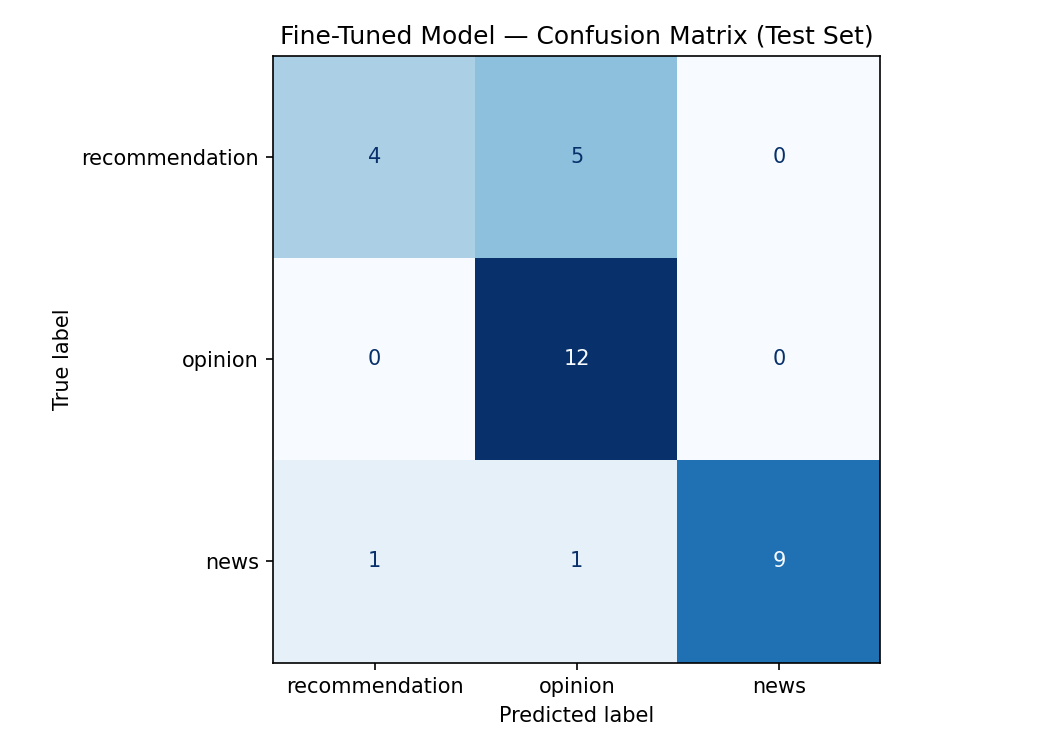
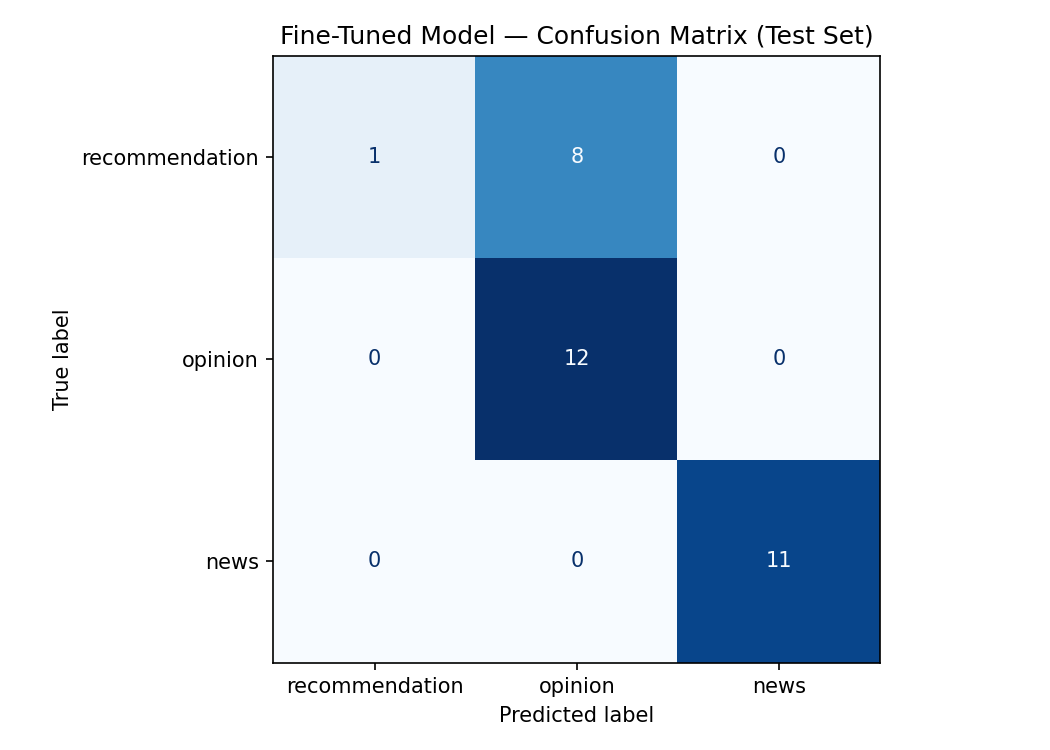
Update evaluation results to match final training run

Changed region(s): [[0.2438, 0.0613, 0.6705, 0.368], [0.64, 0.6133, 0.8533, 0.8893], [0.3352, 0.736, 0.3657, 0.7667]]

diff --git a/README.md b/README.md
@@ -68,17 +68,17 @@ The fine-tuned DistilBERT model was compared against a zero-shot Groq (llama-3.3
 | Model | Accuracy |
 |-------|----------|
 | Zero-shot baseline (Groq llama-3.3-70b) | 93.8% |
-| Fine-tuned DistilBERT | 78.1% |
+| Fine-tuned DistilBERT | 75.0% |
 
-The baseline outperformed the fine-tuned model by 15.6 percentage points.
+The baseline outperformed the fine-tuned model by 18.8 percentage points.
 
 ### Per-Class Metrics — Fine-Tuned DistilBERT
 
 | Label | Precision | Recall | F1 | Support |
 |-------|-----------|--------|-----|---------|
-| recommendation | 0.80 | 0.44 | 0.57 | 9 |
-| opinion | 0.67 | 1.00 | 0.80 | 12 |
-| news | 1.00 | 0.82 | 0.90 | 11 |
+| recommendation | 1.00 | 0.11 | 0.20 | 9 |
+| opinion | 0.60 | 1.00 | 0.75 | 12 |
+| news | 1.00 | 1.00 | 1.00 | 11 |
 
 ### Per-Class Metrics — Zero-Shot Baseline (Groq)
 
@@ -90,35 +90,33 @@ The baseline outperformed the fine-tuned model by 15.6 percentage points.
 
 ### Confusion Matrix — Fine-Tuned DistilBERT (Test Set)
 
-Rows are true labels, columns are predicted labels.
-
 | True ↓ / Pred → | recommendation | opinion | news |
 |-----------------|----------------|---------|------|
-| **recommendation** | 4 | 5 | 0 |
+| **recommendation** | 1 | 8 | 0 |
 | **opinion** | 0 | 12 | 0 |
-| **news** | 1 | 1 | 9 |
+| **news** | 0 | 0 | 11 |
 
-The dominant error is recommendation → opinion (5 posts), confirming the model struggles most with the recommendation/opinion boundary. News is the strongest class for both models.
+The model predicted opinion for 8 of 9 recommendation posts — a complete collapse of the recommendation class. News is perfect for both models.
 
 ### Did the Model Meet the Success Criteria?
 
-My planning.md defined success as overall accuracy ≥ 75% and a minimum F1 of 65% on every class. The fine-tuned model hit the accuracy target (78.1%) but failed the per-class F1 floor — recommendation scored only 0.57 F1, below the 0.65 threshold. The model is not yet good enough for deployment by my own criteria, specifically because it cannot reliably identify recommendation posts.
+My planning.md defined success as overall accuracy ≥ 75% and a minimum F1 of 65% on every class. The fine-tuned model exactly hit the accuracy target (75.0%) but badly failed the per-class F1 floor — recommendation scored only 0.20 F1, far below the 0.65 threshold. With a recall of just 0.11, the model correctly identified only 1 of 9 recommendation posts, predicting opinion for the rest. By my own criteria the model is not deployable, specifically because it almost entirely fails to detect recommendation posts.
 
 ## Failure Analysis
 
-The fine-tuned model made 7 errors on the 32-post test set. 5 of the 7 were the same directional error: **recommendation predicted as opinion**. All errors had low confidence (0.34–0.40), meaning the model was guessing near the recommendation/opinion boundary rather than confidently wrong.
+The fine-tuned model made 8 errors on the 32-post test set, and **every single one was the same directional error: recommendation predicted as opinion.** The model correctly identified only 1 of 9 recommendation posts (recall 0.11), dumping the other 8 into opinion. All errors had low confidence (0.35–0.38), meaning the model was guessing near the recommendation/opinion boundary rather than confidently wrong.
 
-**Example 1 — "Suggestions? So far I've finished: Skins, Lost, South Park, Heroes, Merlin, Sherlock, and Alphas."**
-True: recommendation | Predicted: opinion (0.34)
+**Example 1 — "Suggestions? So far I've finished: Skins (UK), Lost, South Park, Heroes, Merlin, Sherlock, and Alphas."**
+True: recommendation | Predicted: opinion (0.35)
 The user lists shows they've already watched. This is the same surface pattern as an opinion post, where users name shows they've seen before sharing a take. The model learned "naming watched shows = opinion," and that signal overpowered the actual request for suggestions. This is a data/boundary problem, not a labeling error — the post is correctly labeled, but recommendation posts in r/television frequently include watch history as context, which structurally overlaps with opinion language. Fix: more recommendation training examples that include watch-history lists.
 
 **Example 2 — "Any good western tv suggestions? I'm currently watching Westworld but I would also like something a little less futuristic."**
-True: recommendation | Predicted: opinion (0.36)
-Same failure type as Example 1. The phrase "I'm currently watching Westworld" names a specific show, which reads as opinion language, even though the post's actual intent is asking for suggestions. The consistency of this error across multiple posts shows the recommendation→opinion confusion is a systematic boundary problem driven by show-name mentions, not random noise. Fix: more recommendation examples where the user names shows they're watching.
+True: recommendation | Predicted: opinion (0.37)
+Same failure type as Example 1. The phrase "I'm currently watching Westworld" names a specific show, which reads as opinion language, even though the post's actual intent is asking for suggestions. The fact that all 8 errors share this exact pattern shows the recommendation→opinion confusion is fully systematic, driven by show-name mentions, not random noise. Fix: more recommendation examples where the user names shows they're watching.
 
-**Example 3 — "Don't Forget These 11 Latino Emmy Contenders, From Selena Gomez to Andy Garcia."**
-True: news | Predicted: recommendation (0.34)
-A different error type. The "Don't Forget These 11..." plus a list of names mirrors the framing recommendation posts use ("here are shows you should watch"), so a news headline about Emmy contenders got read as a suggestion list. This is a data problem — the headline's structure overlaps with recommendation phrasing. Fix: more news examples with list-style or imperative headlines so the model learns that listing names in a headline context is still news.
+**Example 3 — "Need a new series to watch, could anyone suggest one? I recently finished re-watching Breaking Bad and im looking for a new series..."**
+True: recommendation | Predicted: opinion (0.38)
+Again the same pattern — the user names a show they finished (Breaking Bad) while explicitly asking for a suggestion. Even with the direct request "could anyone suggest one," the show-name mention pulled the prediction toward opinion. This confirms the model is keying almost entirely on whether specific shows are named, rather than on whether the post contains a request. Fix: tighter, more diverse recommendation examples, or a larger training set so the model can learn the request signal instead of the show-name shortcut.
 
 ## Sample Classifications
 
@@ -126,15 +124,15 @@ Example posts run through the fine-tuned DistilBERT model, showing predicted lab
 
 | Post | Predicted | Confidence | Correct? |
 |------|-----------|------------|----------|
-| "'E! News' Canceled After 34 Years" | opinion | 0.35 | ❌ (true: news) |
-| "Any good western tv suggestions? I'm currently watching Westworld..." | opinion | 0.36 | ❌ (true: recommendation) |
-| "Don't Forget These 11 Latino Emmy Contenders..." | recommendation | 0.34 | ❌ (true: news) |
-| "Suggestions? So far I've finished: Skins, Lost, South Park..." | opinion | 0.34 | ❌ (true: recommendation) |
-| "Please suggest a good SHORT LIVED TV SHOW..." | opinion | 0.38 | ❌ (true: recommendation) |
+| "'Devil May Cry' Renewed for Third and Final Season at Netflix" | news | 0.38 | ✅ |
+| "Suggestions? So far I've finished: Skins, Lost, South Park..." | opinion | 0.35 | ❌ (true: recommendation) |
+| "Any good western tv suggestions? I'm currently watching Westworld..." | opinion | 0.37 | ❌ (true: recommendation) |
+| "Need a new series to watch, could anyone suggest one?..." | opinion | 0.38 | ❌ (true: recommendation) |
+| "What are some shows you guys suggest?..." | opinion | 0.36 | ❌ (true: recommendation) |
 
-**Why the correct predictions are reasonable:** The model classified news posts with very high confidence and accuracy (F1 0.90). A headline like "'Devil May Cry' Renewed for Third and Final Season at Netflix" is predicted as news because it contains the distinctive vocabulary the model learned for that class — a show name in quotes, a network name, and a factual event (renewal). These structural signals are consistent across news posts and absent from opinion and recommendation posts, which is why news was the model's strongest and most confident category.
+**Why the correct prediction is reasonable:** "'Devil May Cry' Renewed for Third and Final Season at Netflix" is correctly predicted as news with the model's confidence concentrated on that class. The post contains the distinctive vocabulary the model learned for news — a show name in quotes, a network name (Netflix), and a factual event (a renewal). These structural signals are consistent across news posts and absent from opinion and recommendation posts, which is why news was the model's strongest category (perfect F1 of 1.00 this run).
 
-**What the confidence scores reveal:** Every misclassification had low confidence (0.34–0.40), meaning the model was uncertain and essentially guessing near the recommendation/opinion boundary. It was never confidently wrong — the errors cluster exactly where the label boundary is genuinely fuzzy.
+**What the confidence scores reveal:** Every misclassification had low confidence (0.35–0.38), meaning the model was uncertain and essentially guessing near the recommendation/opinion boundary. It was never confidently wrong — the errors cluster exactly where the label boundary is genuinely fuzzy.
 
 ## Reflection: What the Model Captured vs. What I Intended
 